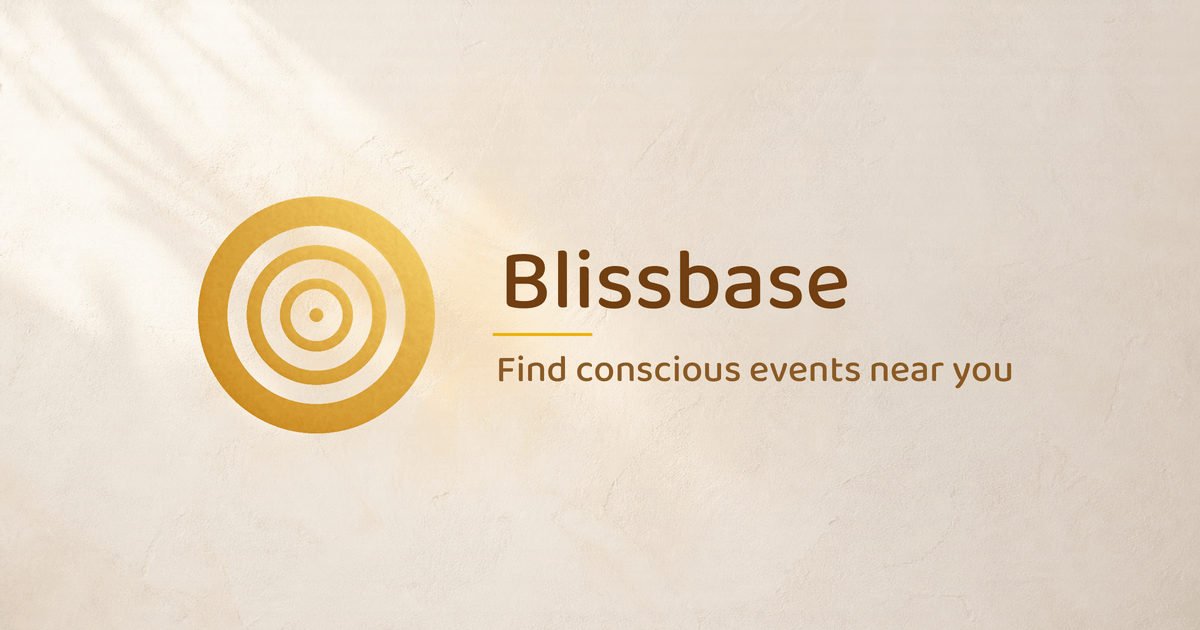
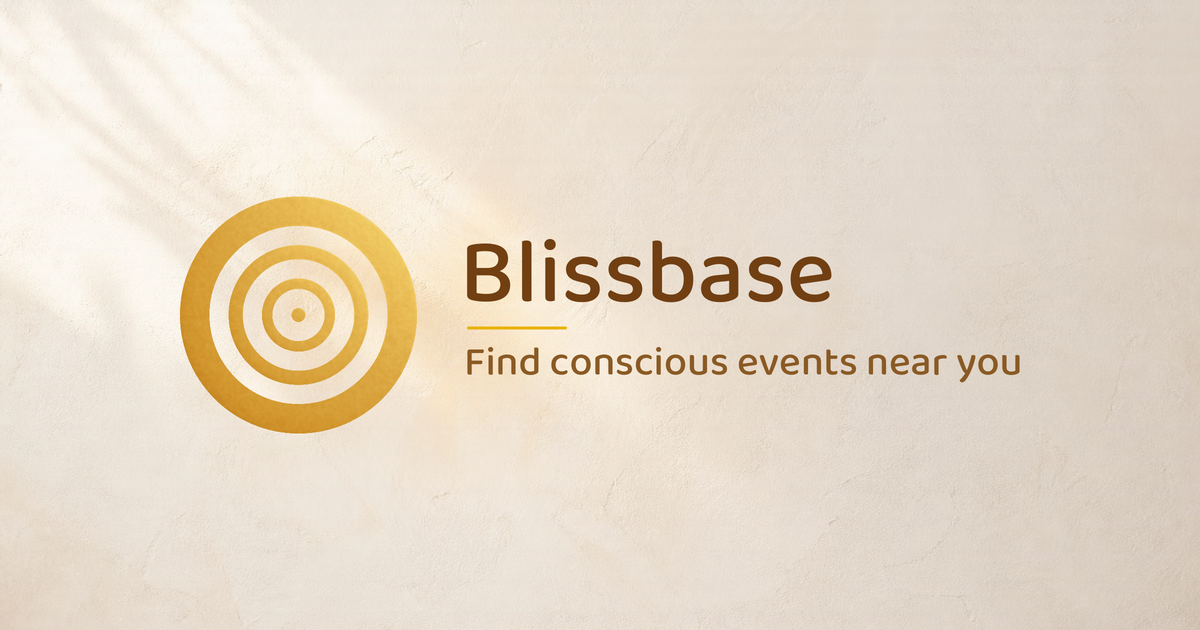
og poster

Changed region(s): [[0.1233, 0.3016, 0.8633, 0.6937]]

diff --git a/scripts/generate-og-poster.ts b/scripts/generate-og-poster.ts
@@ -35,28 +35,36 @@ async function writeOgPoster() {
 
 	const logoSize = px(252)
 	const logo = await prepareLogo(logoSize)
+	const logoBounds = await opaqueBounds(logo)
 
-	const titleSize = 86 * SCALE
-	const subtitleSize = 38 * SCALE
+	const titleSize = 92 * SCALE
+	const subtitleSize = 41 * SCALE
 	const titleGlyphs = await renderBrandText({ text: title, fontSize: titleSize, fill: TEXT })
 	const subtitleGlyphs = await renderBrandText({
 		text: subtitle,
 		fontSize: subtitleSize,
 		fill: TEXT_SOFT,
 	})
-	const textBlockWidth = Math.max(titleGlyphs.advance, subtitleGlyphs.advance)
+	const titleBounds = await opaqueBounds(titleGlyphs.png)
+	const subtitleBounds = await opaqueBounds(subtitleGlyphs.png)
+	const textVisualWidth = Math.max(titleBounds.width, subtitleBounds.width)
 	const textBlockHeight = titleSize + px(80) + subtitleSize
 
 	const gap = px(50)
-	const groupWidth = logoSize + gap + textBlockWidth
+	const groupWidth = logoBounds.width + gap + textVisualWidth
+	const groupHeight = Math.max(logoBounds.height, textBlockHeight)
 	const groupX = Math.round((width - groupWidth) / 2)
-	const logoX = groupX
-	const logoY = Math.round((height - logoSize) / 2)
-	const textX = logoX + logoSize + gap
-	const textTop = logoY + Math.round((logoSize - textBlockHeight) / 2) + px(8)
+	const groupY = Math.round((height - groupHeight) / 2)
+
+	const logoX = groupX - logoBounds.minX
+	const logoY = groupY - logoBounds.minY + Math.round((groupHeight - logoBounds.height) / 2)
+	const textX = groupX + logoBounds.width + gap
+	const textTop = groupY + Math.round((groupHeight - textBlockHeight) / 2)
 	const titleBaseline = textTop + titleSize
 	const ruleY = titleBaseline + px(26)
 	const subtitleBaseline = ruleY + px(48)
+	const titleTop = Math.round(titleBaseline - titleGlyphs.baseline)
+	const subtitleTop = Math.round(subtitleBaseline - subtitleGlyphs.baseline)
 
 	const overlay = Buffer.from(`
 		<svg xmlns="http://www.w3.org/2000/svg" width="${width}" height="${height}">
@@ -78,13 +86,13 @@ async function writeOgPoster() {
 			{ input: logo, left: logoX, top: logoY },
 			{
 				input: titleGlyphs.png,
-				left: textX - titleGlyphs.padding,
-				top: Math.round(titleBaseline - titleGlyphs.baseline),
+				left: textX - titleBounds.minX,
+				top: titleTop,
 			},
 			{
 				input: subtitleGlyphs.png,
-				left: textX - subtitleGlyphs.padding,
-				top: Math.round(subtitleBaseline - subtitleGlyphs.baseline),
+				left: textX - subtitleBounds.minX,
+				top: subtitleTop,
 			},
 		])
 		.png()
@@ -226,5 +234,32 @@ function renderWordPath({
 		baseline,
 		advance: brandFont.getAdvanceWidth(text, fontSize),
 		height,
+	}
+}
+
+async function opaqueBounds(png: Buffer) {
+	const { data, info } = await sharp(png).ensureAlpha().raw().toBuffer({ resolveWithObject: true })
+	let minX = info.width
+	let minY = info.height
+	let maxX = 0
+	let maxY = 0
+
+	for (let y = 0; y < info.height; y++) {
+		for (let x = 0; x < info.width; x++) {
+			if ((data[(y * info.width + x) * 4 + 3] ?? 0) < 10) continue
+			if (x < minX) minX = x
+			if (x > maxX) maxX = x
+			if (y < minY) minY = y
+			if (y > maxY) maxY = y
+		}
+	}
+
+	return {
+		minX,
+		minY,
+		maxX,
+		maxY,
+		width: maxX - minX + 1,
+		height: maxY - minY + 1,
 	}
 }
